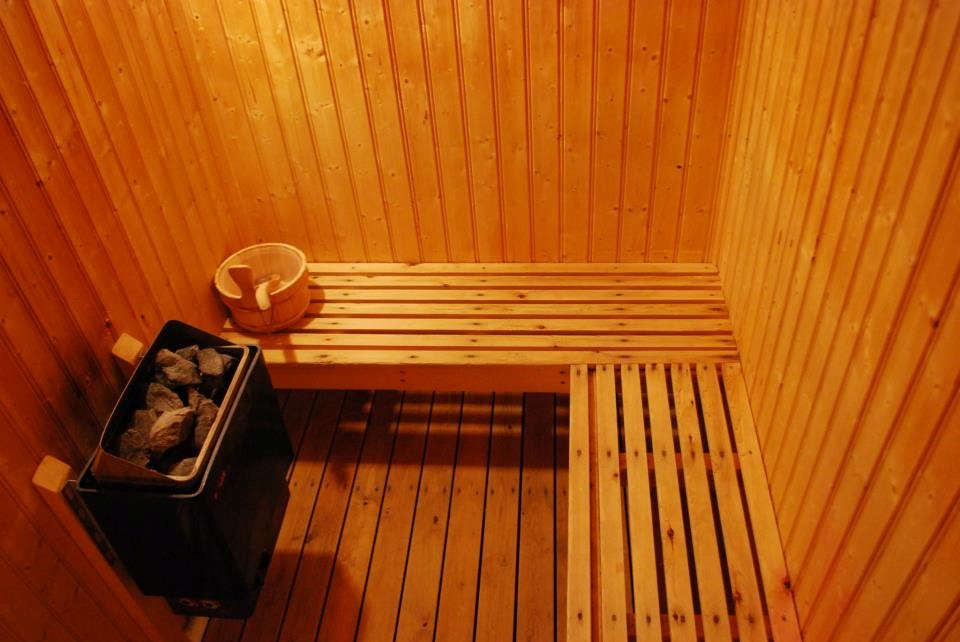
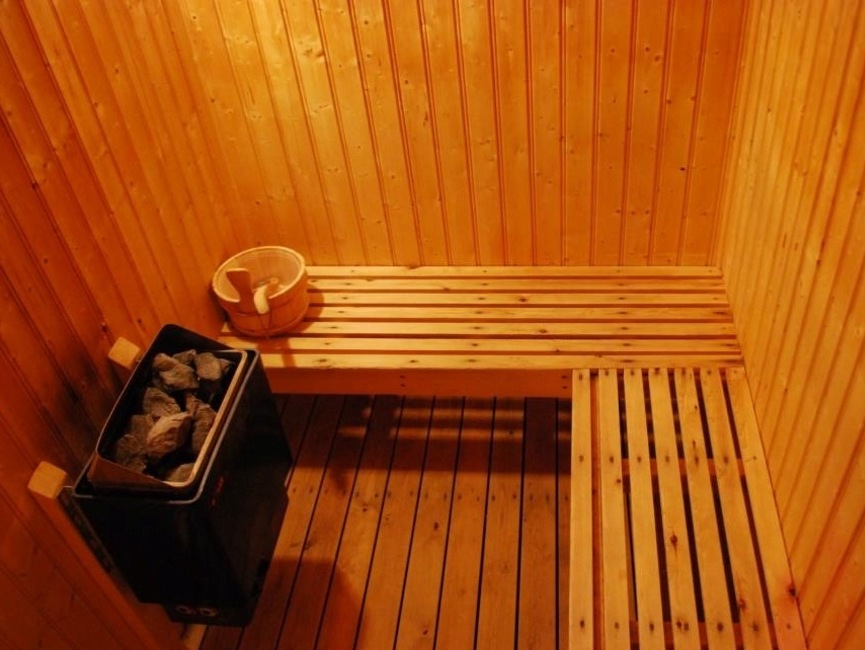
resize images

diff --git a/frontend/src/components/pages/cabins/ImageSlider.tsx b/frontend/src/components/pages/cabins/ImageSlider.tsx
@@ -10,12 +10,12 @@ interface ImageSliderProps {
 
 const images = {
     bjørnen: [
-        "/static/cabins/resized/bilde01.jpg",
-        "/static/cabins/resized/bilde02.jpg",
-        "/static/cabins/resized/bilde03.jpg",
-        "/static/cabins/resized/bilde04.jpg",
-        "/static/cabins/resized/bilde05.jpg",
-        "/static/cabins/resized/bilde06.jpg",
+        "/static/cabins/bilde01.jpg",
+        "/static/cabins/bilde02.jpg",
+        "/static/cabins/bilde03.jpg",
+        "/static/cabins/bilde04.jpg",
+        "/static/cabins/bilde05.jpg",
+        "/static/cabins/bilde06.jpg",
     ],
     oksen: [],
 };
